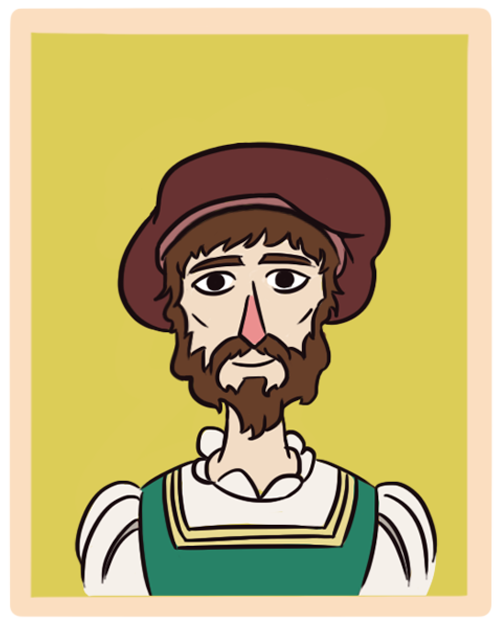
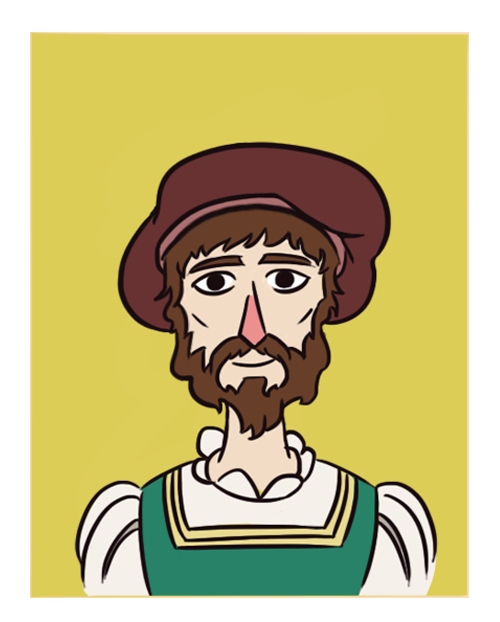
Minor usability improvements

Changed region(s): [[0.0, 0.0, 0.99, 1.0]]

diff --git a/game/css/device.css b/game/css/device.css
@@ -1,14 +1,62 @@
 @media (min-aspect-ratio: 3/4) {
+
+	@media (max-height: 850px) {
+		#page {
+			width: 400px;
+		}
+
+		#card_space {
+			border: solid 1px #fbdec0;
+		}
+
+		#narrative {
+			box-shadow: none;
+			border-width: 0;
+		}
+
+		#balance {
+			border: solid 1px #fbdec0;
+		}
+
+		#balance img {
+			margin: 10px 6%;
+		}
+	}	
+	
+	@media (min-height: 850px) {
+		#page {
+			width: 600px;
+		}
+
+		#card_space {
+			border-width: 0 50px;
+		}
+
+		#narrative {
+			border-width: 5px;
+		}
+
+		#balance img {
+			margin: 6%;
+		}
+	}
+
 	#page {
-		width: 600px;
 		margin: 0 auto;
-		border: solid 1px white;
 	}
 }
 
 @media (max-aspect-ratio: 3/4) {
 	#page {
 		width: 100%;
+	}
+
+	#card_space {
+		border-width: 0 50px;
+	}
+
+	#narrative {
+		border-width: 5px;
 	}
 
 	#links {
@@ -19,5 +67,9 @@
 		position: absolute;
     	right: 120px;
     	bottom: 0;
+	}
+
+	#balance img {
+		margin: 6%;
 	}
 }

diff --git a/game/css/game.css b/game/css/game.css
@@ -25,7 +25,6 @@ body {
 	padding: 8px;
 	height: 100%;
 	border-style: solid;
-	border-width: 0 50px;
 	border-image: url('../img/side.png') 0 100;
 }
 
@@ -46,9 +45,8 @@ body {
 }
 
 #balance img {
-	width: 7%;
+	width: 9%;
 	aspect-ratio: 1/1;
-	margin: 8%;
 }
 
 #narrative {
@@ -133,8 +131,9 @@ ins {
 	display: none;
 	padding: 10pt 20pt;
 	font-size: larger;
-    width: 50%;
+	width: 50%;
 	color: white;
+	text-shadow: 1px 0 0 black, 0 1px 0 black, -1px 0 0 black, 0 -1px 0 black;
 	position: absolute;
 	font-weight: bold;
 	font-family: 'Cinzel', serif;

diff --git a/game/js/swipe.js b/game/js/swipe.js
@@ -39,10 +39,10 @@ function swipe_show(rot) {
     var card = document.querySelector("#current_swipe")
     rotate(card, rot)
     
-    if (rot < -5) {
+    if (rot < -2) {
         card.querySelector(".left.action").style.display = "inherit"
         card.querySelector(".right.action").style.display = "none"
-    } else if (rot > 5) {
+    } else if (rot > 2) {
         card.querySelector(".right.action").style.display = "inherit"
         card.querySelector(".left.action").style.display = "none"
     } else {
